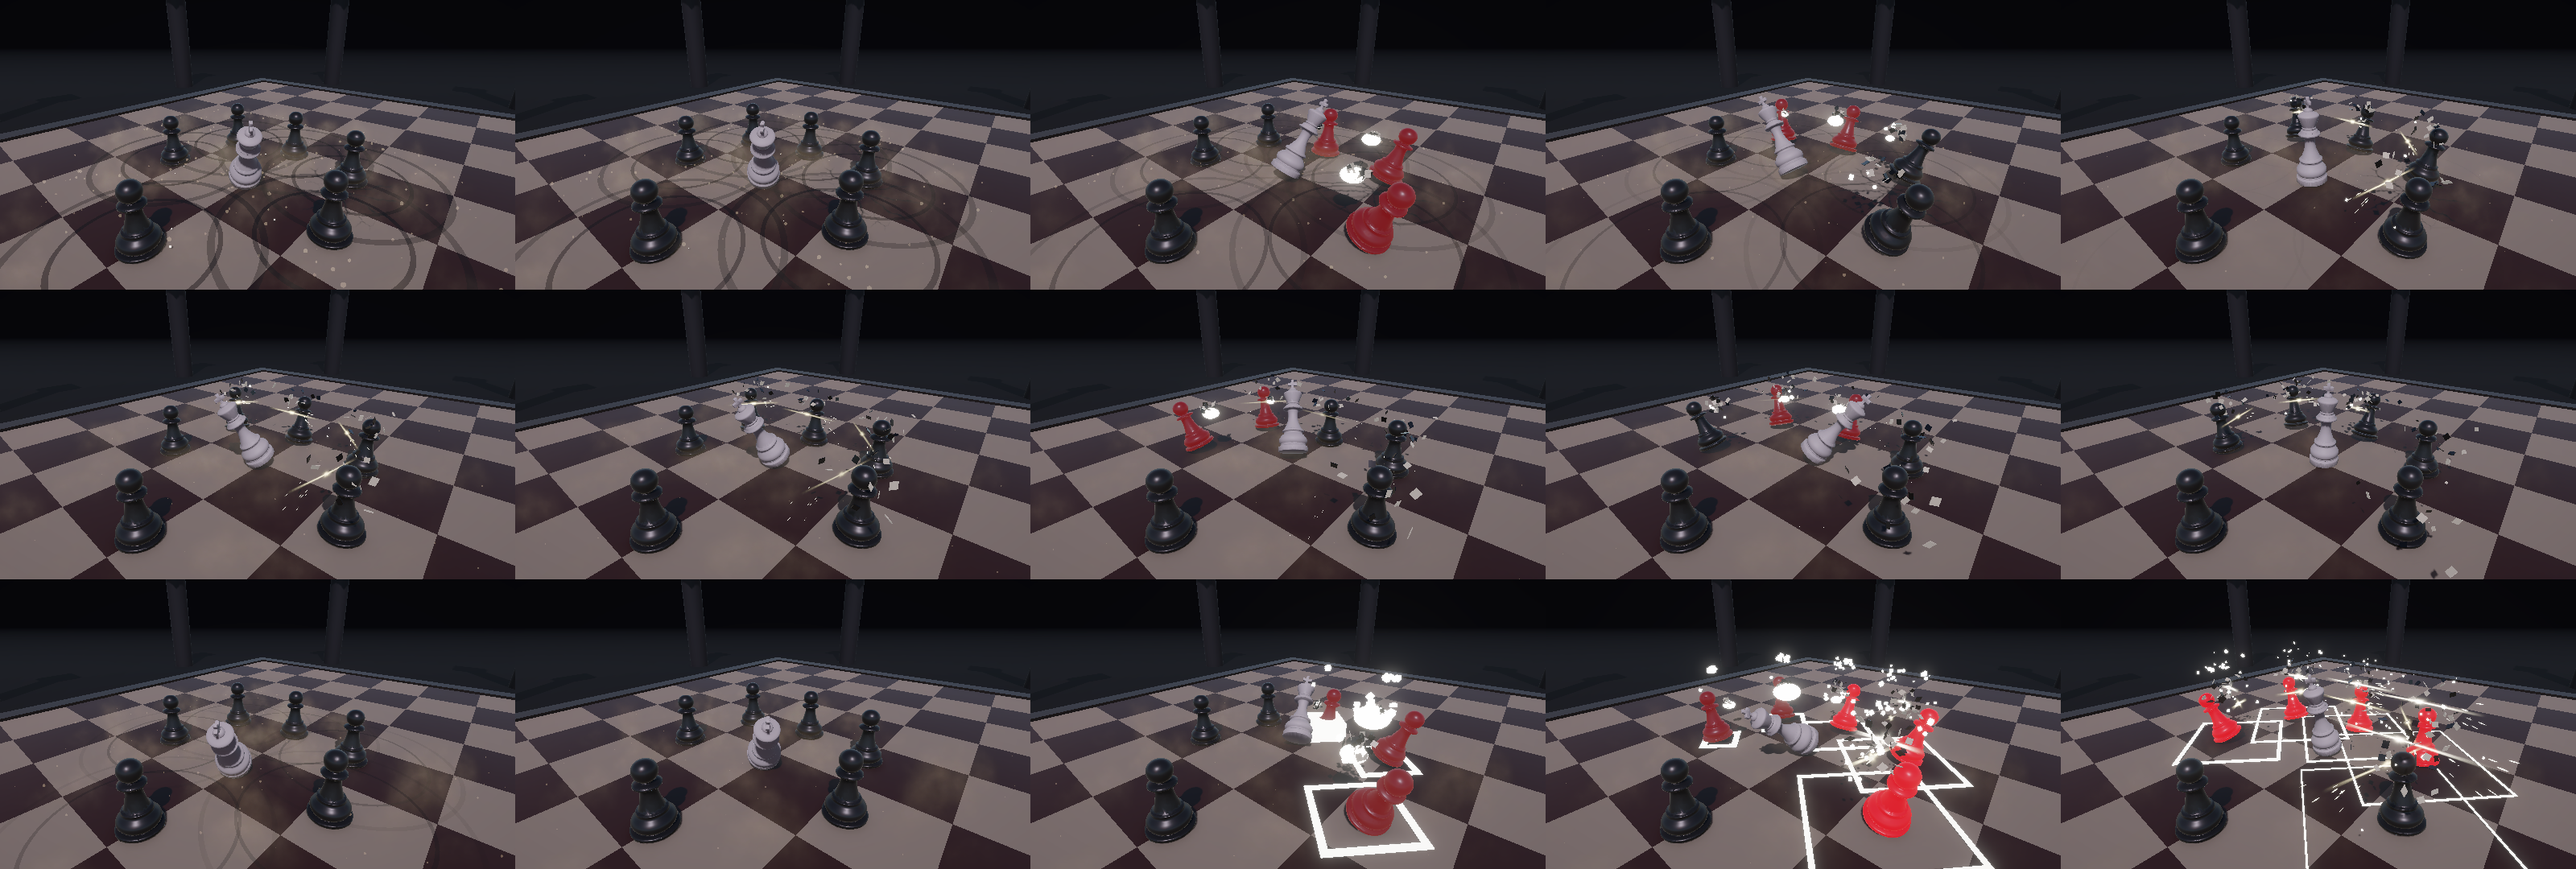
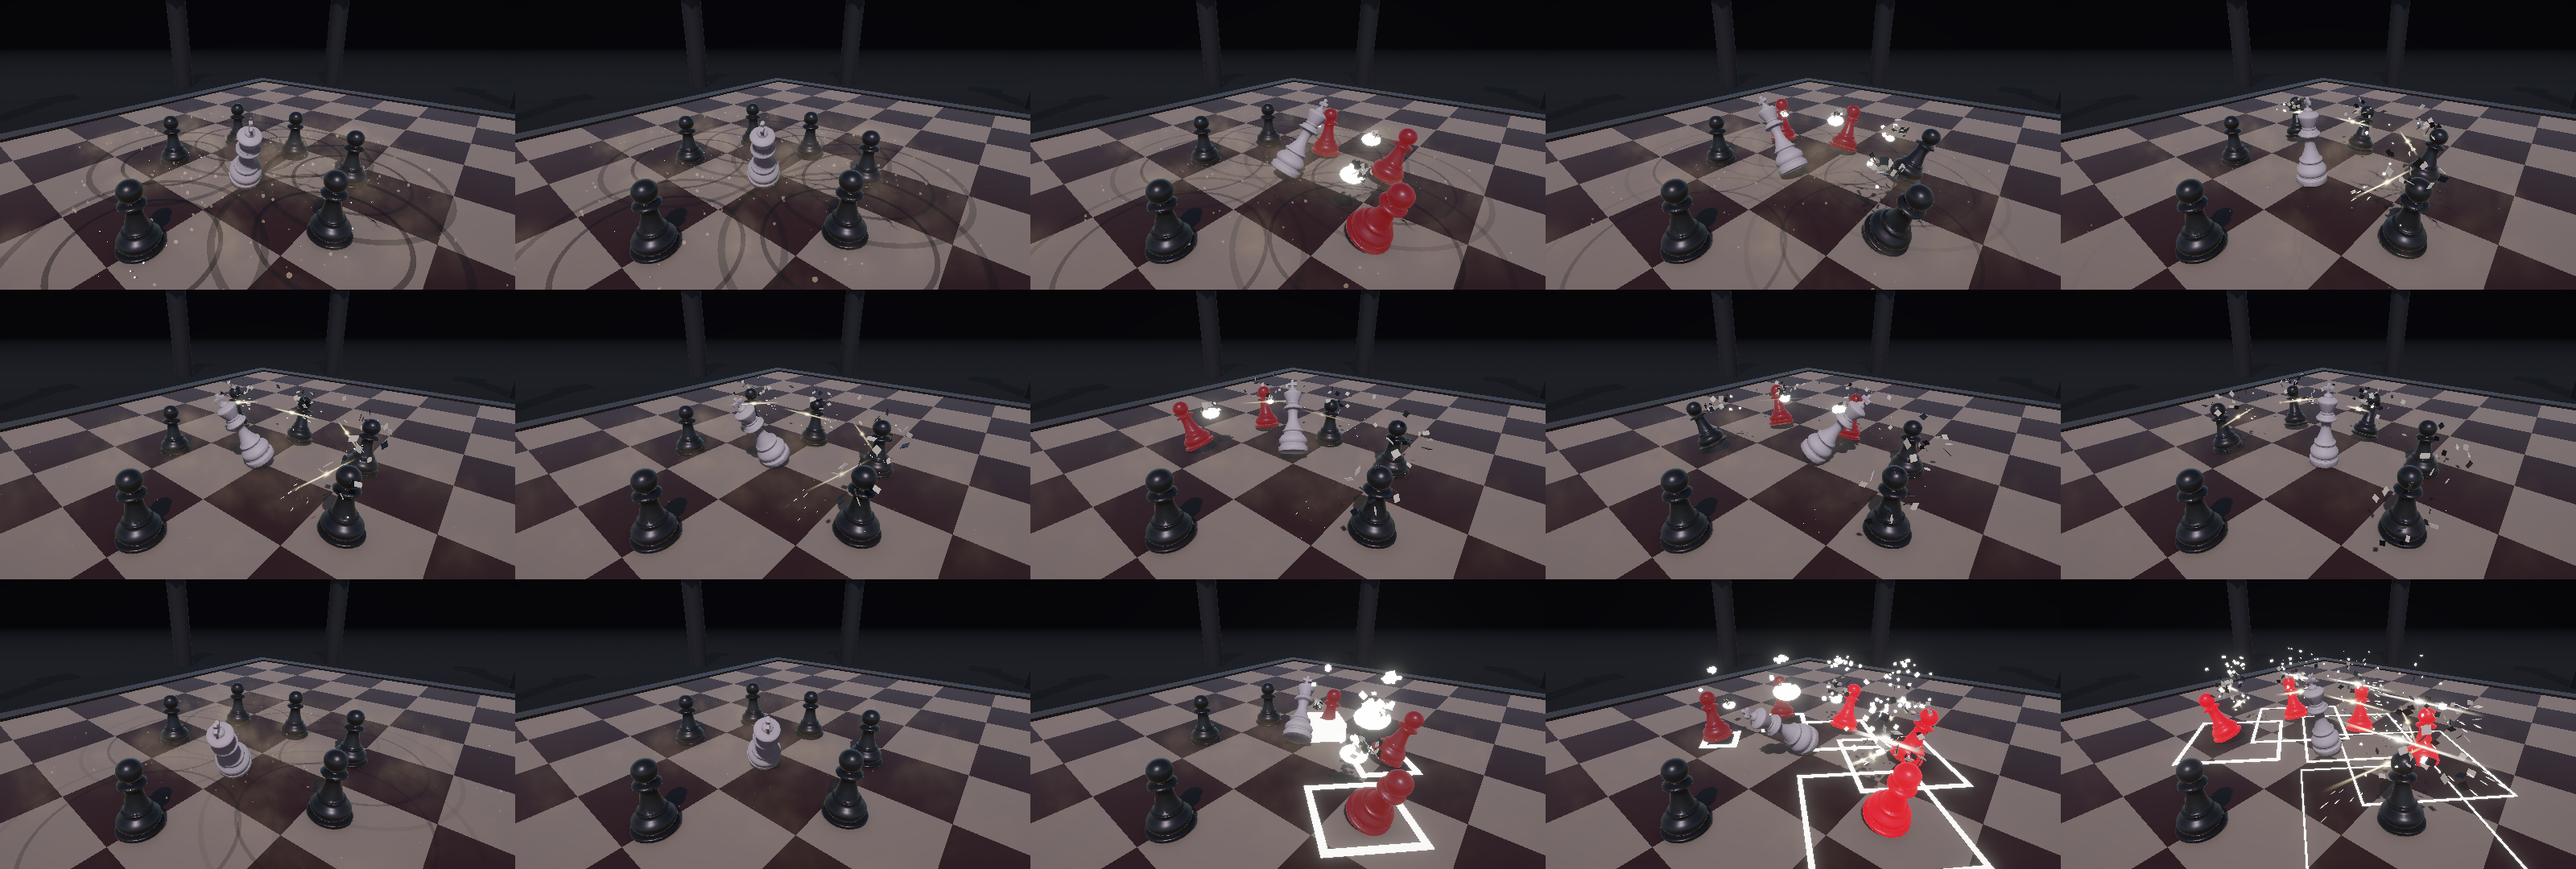
Pawn thrust warning back to the classic strip, refined
Pawns use Telegraph.Strip instead of lit squares: a translucent lane along
the thrust with thin glowing side rails and tip line, a fill that surges
from the pawn to the tip behind a bright leading edge, and the shared
white blink in the last 0.2 s. Other pieces keep the board-square warnings.

diff --git a/Assets/Scripts/Core/Telegraph.cs b/Assets/Scripts/Core/Telegraph.cs
@@ -21,7 +21,7 @@ namespace KingLastPiece
     {
         public const float FlashTime = 0.2f;
 
-        enum Kind { Line, Area, Leap }
+        enum Kind { Line, Area, Leap, Strip }
 
         class Cell
         {
@@ -39,6 +39,10 @@ namespace KingLastPiece
         readonly List<Vector2Int> squares = new List<Vector2Int>();
         readonly List<Vector2Int> scratch = new List<Vector2Int>();
         Transform cellRoot, routeRoot, ghost;
+        // Pawn strip parts.
+        Transform stripBase, stripFill, stripFront;
+        Transform[] stripRails;
+        float stripWidth;
         readonly List<Transform> dots = new List<Transform>();
         Vector3 routeStart, routeDir;
         float routeLength = -1f;
@@ -58,6 +62,66 @@ namespace KingLastPiece
             var t = Create("Telegraph_Line", Kind.Line, windup);
             t.SetLine(start, dir, length, width);
             return t;
+        }
+
+        /// <summary>
+        /// A pawn's thrust: the classic strip along the line (not tied to the board squares) — a translucent lane with
+        /// thin glowing side rails and end line, filling from the pawn toward the tip behind a bright leading edge.
+        /// </summary>
+        public static Telegraph Strip(Vector3 start, Vector3 dir, float length, float width, float windup)
+        {
+            var t = Create("Telegraph_Strip", Kind.Strip, windup);
+            t.start = Flat(start);
+            t.dir = dir.sqrMagnitude > 0.0001f ? Flat(dir).normalized : Vector3.forward;
+            t.length = Mathf.Max(0.3f, length);
+            t.stripWidth = width;
+            var root = t.cellRoot;
+            t.stripBase = PieceFactory.Part(PrimitiveType.Cube, root, Vector3.zero, Vector3.one, t.baseMat);
+            t.stripFill = PieceFactory.Part(PrimitiveType.Cube, root, Vector3.zero, Vector3.one, t.fillMat);
+            t.stripFront = PieceFactory.Part(PrimitiveType.Cube, root, Vector3.zero, Vector3.one, EdgeMat);
+            t.stripRails = new[]
+            {
+                PieceFactory.Part(PrimitiveType.Cube, root, Vector3.zero, Vector3.one, EdgeMat),
+                PieceFactory.Part(PrimitiveType.Cube, root, Vector3.zero, Vector3.one, EdgeMat),
+                PieceFactory.Part(PrimitiveType.Cube, root, Vector3.zero, Vector3.one, EdgeMat),
+            };
+            foreach (var r in root.GetComponentsInChildren<Renderer>()) r.shadowCastingMode = UnityEngine.Rendering.ShadowCastingMode.Off;
+            return t;
+        }
+
+        void UpdateStrip(float p, bool white)
+        {
+            var rot = Quaternion.LookRotation(dir);
+            Vector3 side = Vector3.Cross(Vector3.up, dir);
+            float w = stripWidth, len = length;
+            Vector3 mid = start + dir * (len * 0.5f);
+            stripBase.SetPositionAndRotation(mid + Vector3.up * 0.022f, rot);
+            stripBase.localScale = new Vector3(w, 0.01f, len);
+
+            // Fill from the pawn to the tip, eased so it surges at the end.
+            float fl = Mathf.Max(0.01f, len * PoseTrack.Curve(Ease.In, p) * 0.85f + len * 0.15f * p);
+            stripFill.SetPositionAndRotation(start + dir * (fl * 0.5f) + Vector3.up * 0.028f, rot);
+            stripFill.localScale = new Vector3(w * 0.92f, 0.01f, fl);
+            stripFront.SetPositionAndRotation(start + dir * fl + Vector3.up * 0.036f, rot);
+            stripFront.localScale = new Vector3(w * 0.96f, 0.012f, 0.07f);
+
+            // Thin rails along both sides and a line across the tip.
+            const float rail = 0.05f;
+            stripRails[0].SetPositionAndRotation(mid + side * (w * 0.5f) + Vector3.up * 0.034f, rot);
+            stripRails[0].localScale = new Vector3(rail, 0.012f, len);
+            stripRails[1].SetPositionAndRotation(mid - side * (w * 0.5f) + Vector3.up * 0.034f, rot);
+            stripRails[1].localScale = new Vector3(rail, 0.012f, len);
+            stripRails[2].SetPositionAndRotation(start + dir * len + Vector3.up * 0.034f, rot);
+            stripRails[2].localScale = new Vector3(w + rail, 0.012f, rail);
+
+            var m = white ? FlashMat : EdgeMat;
+            foreach (var t in stripRails)
+            {
+                var r = t.GetComponent<Renderer>();
+                if (r.sharedMaterial != m) r.sharedMaterial = m;
+            }
+            var fr = stripFront.GetComponent<Renderer>();
+            if (fr.sharedMaterial != m) fr.sharedMaterial = m;
         }
 
         /// <summary>A blast around a point (slams; the queen's leap), plus the attacker's own square at <paramref name="origin"/>.</summary>
@@ -284,12 +348,25 @@ namespace KingLastPiece
 
         // ---------------------------------------------------------------- animation
 
+        void SetFillAlpha(float p)
+        {
+            var col = fillMat.GetColor("_BaseColor");
+            col.a = Mathf.Lerp(0.35f, 0.65f, p);
+            fillMat.SetColor("_BaseColor", col);
+        }
+
         void Update()
         {
             float p = progress;
             float timeLeft = windup * (1f - p);
             // Blink fast in the final moment: white on/off.
             bool white = timeLeft <= FlashTime && Mathf.Repeat(timeLeft * 30f, 2f) < 1.2f;
+            if (kind == Kind.Strip)
+            {
+                UpdateStrip(p, white);
+                SetFillAlpha(p);
+                return;
+            }
 
             float size = Tile * 0.96f;
             int n = cells.Count;
@@ -323,9 +400,7 @@ namespace KingLastPiece
                 }
             }
 
-            var col = fillMat.GetColor("_BaseColor");
-            col.a = Mathf.Lerp(0.35f, 0.65f, p);
-            fillMat.SetColor("_BaseColor", col);
+            SetFillAlpha(p);
 
             // Route dots light up in sequence, toward the target, quicker as the wind-up runs out.
             float speed = Mathf.Lerp(2f, 4.5f, p);

diff --git a/Assets/Scripts/Combat/EnemyBase.cs b/Assets/Scripts/Combat/EnemyBase.cs
@@ -493,7 +493,10 @@ namespace KingLastPiece
                 case AtkKind.Dash:
                     plan.length = Mathf.Min(plan.length, DistanceToEdge(atkStart, plan.dir));
                     if (plan.kind == AtkKind.Dash) plan.active = Mathf.Max(0.12f, plan.length / Mathf.Max(1f, plan.speed));
-                    telegraph = Telegraph.Line(atkStart, plan.dir, plan.length + plan.radius, plan.radius * 2f, plan.windup);
+                    // Pawns keep the classic strip; the line pieces light the board squares along their charge.
+                    telegraph = Type == PieceType.Pawn
+                        ? Telegraph.Strip(atkStart, plan.dir, plan.length + plan.radius, plan.radius * 2f, plan.windup)
+                        : Telegraph.Line(atkStart, plan.dir, plan.length + plan.radius, plan.radius * 2f, plan.windup);
                     break;
                 case AtkKind.Leap:
                     plan.target = ClampPoint(plan.target);
